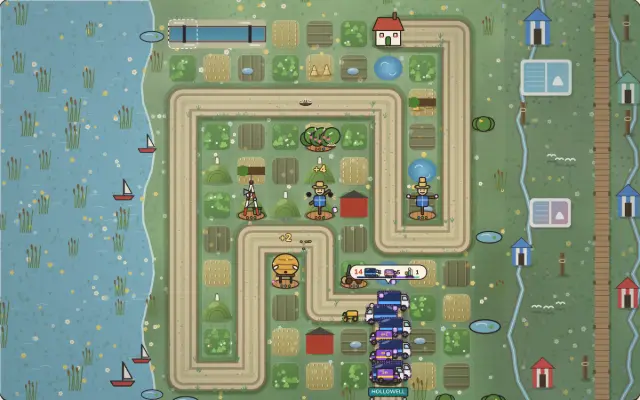
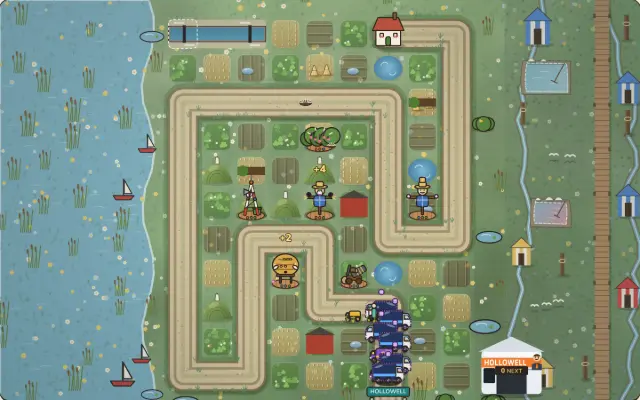
Hedgerow: a driver in every cab and an exhaust puff on the move (item 256, slice 1); key art re-shot; lane B notes; release lock
Claude-Session: https://claude.ai/code/session_01SimvMN1RHBGCWN7Eo7MzhN

diff --git a/games/hedgerow/src/sprites.ts b/games/hedgerow/src/sprites.ts
@@ -1516,6 +1516,20 @@ function vehicle(ctx: C, x: number, y: number, s: number, t: number, o: VehicleO
     ctx.closePath();
     ctx.fill();
     ctx.stroke();
+    // Plan item 256: someone at the wheel: a driver's head and shoulders in the window, in Hollowell's cap.
+    ctx.save();
+    ctx.clip();
+    ctx.fillStyle = "#3a2f2a";
+    ctx.beginPath();
+    ctx.ellipse(x0 + L * 0.86, top + H * 0.58, L * 0.06, H * 0.14, 0, 0, Math.PI * 2);
+    ctx.fill();
+    ctx.fillStyle = "#e9c3a0";
+    ctx.beginPath();
+    ctx.arc(x0 + L * 0.86, top + H * 0.43, Math.min(L * 0.04, H * 0.11), 0, Math.PI * 2);
+    ctx.fill();
+    ctx.fillStyle = o.stripe ?? "#1f8a8a";
+    ctx.fillRect(x0 + L * 0.82, top + H * 0.3, L * 0.08, H * 0.06);
+    ctx.restore();
     // Headlight.
     ctx.fillStyle = "#fff2a8";
     ctx.beginPath();
@@ -1534,6 +1548,14 @@ function vehicle(ctx: C, x: number, y: number, s: number, t: number, o: VehicleO
     ctx.fillText(o.label, x0 + L * 0.37, top + H * 0.38);
   }
   shine(ctx, x0 + L * 0.2, top + H * 0.18, L * 0.14, H * 0.07);
+  // Plan item 256: an exhaust puff at the tail, drifting back as it goes (still while parked in the queue: t is 0).
+  if (t > 0) {
+    const k = (t * 1.6) % 1;
+    ctx.fillStyle = `rgba(150,150,150,${(0.45 * (1 - k)).toFixed(2)})`;
+    ctx.beginPath();
+    ctx.arc(x0 - s * (0.04 + k * 0.12), y - wr * 1.4 - k * s * 0.05, s * (0.03 + k * 0.04), 0, Math.PI * 2);
+    ctx.fill();
+  }
   const n = o.wheels ?? 2;
   for (let i = 0; i < n; i++) {
     const wx = x0 + L * (0.18 + (i * 0.64) / Math.max(1, n - 1));

diff --git a/PROGRESS.md b/PROGRESS.md
@@ -5,7 +5,7 @@ Short by design (SPEC 16: under 150 lines). v1's full history (M0 to M7, every s
 ## Now
 - Lane A (13:51): item 249 done (3 slices; accept's 700/620 px cut, see DECISIONS); item 251 slice 1 (plate clear of her body at t=8) and handed back (the t=60 framing). `plan-cards` at 1280 had failed on HEAD before 249 (fixed). **Today's 19:51 session releases** (run the full site suite first).
 - Critique bugs from the 09:35 shots (`e2e/screenshots/plan1103d/`): NIGHT SHIFT wordmark 'H's: closed 2026-11-07 06:30 (lane A: whole at L and D at 8 s and 20 s; the SVG path, no dash left). Runnel P's spring house and garden: closed 2026-11-04 (item 106).
-- Lane B (13:22): planned items 254-259 (`plan1107e`); item 242 closed on its fog slice; item 259 slice 1 (Runnel props off the hill crest). Items 211, 222, 224, 236, 259 claimed.
+- Lane B (14:22): item 256 slice 1 (drivers and exhaust on Hedgerow's vehicles; key art re-shot). Items 211, 222, 224, 236, 256, 259 claimed.
 - Critique bugs from the 2026-11-05 09:30 shots (`e2e/screenshots/plan1105c/`, lane B): `cath-title-D` pennant hint ~13 px white on brown (1030-1280 x 800-818) and footer ~12 px (310-1130 x 872-886); `cath-title-P` small keys' labels ~12 px (85-305 x 692-735); `cath-setup-D` seed 'random' low contrast (655-840 x 795-835); `hedge-l34-2d-D` '485 coming' over a farmer (300-395 x 128-150); `hedge-menu-P` 'Brand Ambassador' (closed 2026-11-07 06:35 lane A: on its own label pill beside stop 30, off the road); `ns-title-D` neon sign clipped at the top (790-1150 x 0-45); `ns-play-P` FIXER tab cut (340-390 x 68-82); `games-P` hero ghosted (likely shot mid-entrance: check before fixing).
 - Critique bug seen 2026-11-04 13:30 (lane A, 1280x800): a Not-yet name cut on a 1280 desktop. Fixed 2026-11-04 14:15 (item 104 slice 1).
 - Critique bugs still open (2026-11-03 07:10 shots, `e2e/screenshots/plan1103c/`): NIGHT SHIFT P class pick blank under swiftshader (unconfirmed). Closed 2026-11-04 14:55 (lane A, checked in `plan1104e`): Cath no longer covers title-board hexes at P; Hedgerow D notebook is full; Hedgerow P map header is the act banner over the map.
@@ -37,6 +37,7 @@ None (Vercel deployed 9aee11e on 2026-10-12). (The App Store launch is postponed
 
 ## Session log (newest first, last 15)
 - **2026-11-07 13:51 lane A session:** CI green on 25dd7b5. Item 249 slices 1-3 and done (readings folded beside the papers at 1400+, board 536 -> 593 px at 1440x900; tile idle life `data-idle`); item 251 slice 1, handed back. Passing: board-scale, table-cath, -face, desktop-no-scroll, suggest-move, critique177, board-scales, board-objects, plan-cards (fixed at 1440 and 1280), accessibility, board-idle (new), tutorial (flaked once, passed twice), map unit; cathode-front 'clear of her upright', 'stands whole', 'face reads' (site-phone/-desktop); CSS lint, cathode-type, tsc, eslint. Full `npm run check` not run. Shots scratchpad b249 (before/after/after2 at 1440 light and dark, 1280, 1920, 390; idle zooms; ns-before/after at 390, 375, t=60).
+- **2026-11-07 14:22 lane B session:** CI green on 7363e5d. Lock push first rejected (lane A's claim landed); rebased and pushed, no other lane-B lock. Item 256 slice 1. Passing: hedgerow unit (609), keyart-fresh, hedgerow-vehicles, -gatequeue, -silhouettes, -swarm (phone and desktop). Shots `e2e/screenshots/i214/cv-*`.
 - **2026-11-07 13:22 lane B session:** CI green on 7345ddb. Item 242 closed; planned 254-259; item 259 slice 1. Passing: runnel-week-valley, -valley-folk, -valley, -front (phone and desktop). Shots `e2e/screenshots/plan1107e`, `i214/rp2-*`.
 - **2026-11-07 12:52 lane A session:** CI green on f140f17 (c04fecd cancelled, 7345ddb running). Item 249 slice 1: the Market Board as a 2x2 beside the papers at 1400 px and up (board 536 -> 606 px at 1440x900); not committed: board-scale (Cath meets Brindle Hills; map moves 13 px on Hollowell's turn) and table-cath failed. Passing with it: desktop-no-scroll, critique177, tutorial, board-scales, CSS lint. Patch saved, item handed back. No code shipped. Shots scratchpad b249 (before, a1-a6).
 - **2026-11-07 11:51 lane A session:** CI green on d3129347. Item 247 slice 3 and done. Passing: cathode-classpick (face 70 px and prop-off-face asserts added), -classpose, -classstage, -front and -idle but one (phone and desktop); keyart-fresh, cathode-classposes unit; tsc, eslint. Failing on HEAD without this change: cathode-front 'clear of her upright' (P, item 251). Full `npm run check` not run (time). Shots scratchpad ns247b (before, a1-a5 D, P, L).
@@ -50,4 +51,3 @@ None (Vercel deployed 9aee11e on 2026-10-12). (The App Store launch is postponed
 - **2026-11-07 07:51 lane A session:** CI green on f17e099. Item 245 done (NS phone class pick: the class named large over Cath, page dots, the tab row visually hidden); item 246 slice 2. Passing: cathode-classpick (new swipe test), -dossier, -classstage (P and D); setup-* (25, D and P); runnel-front, -lesson-frame, -lesson-hand, -lesson-notebook; CSS lint, cathode-type, tsc, eslint. Full `npm run check` passed (280 files, 2476 tests). runnel-lesson-close fails at P on HEAD without this change too (1.5 s tile-count wait). Shots scratchpad c245 (before/a1/a2 P, D), b246/a246 (cath, runnel P and D).
 - **2026-11-07 08:21 lane B session:** CI green on f17e099. Item 242 slice 1. Passing: hedgerow-3dframe, -depot3d, -farhouses3d, -biome3d (phone and desktop); tsc. hedgerow-camera3d's settle test flaky on HEAD (3/3 fail without this change). Shots `e2e/screenshots/i214/fog*`.
 - **2026-11-07 07:21 lane B session:** CI green on 105e4b9. Item 242: a CSS horizon haze tried, reverted (camera3d failed with it, passed without); handed back. No code shipped.
-- **2026-11-07 06:51 lane A session:** CI green on 2f92a0b. Items 241 (Hedgerow map stops as painted per-act landmarks, `stopart.ts`), 244 (Cathnivore D ledger written in ink with a running Marks column) and 243 (/games/ D hero as Cath's stall, `site/src/booth.ts`) done. Passing: hedgerow-map (38, P and D), hedgerow-stopart unit; ledger-ink (new), partner-mat, board-scale, role-card, boardroom, desktop-no-scroll (D), round-ledger unit; games-stall (new 243 test), games-cards (two checks updated, see DECISIONS), games-hero-cath, site-hero, games-cath, critique104; CSS lint, tsc, eslint. Full `npm run check` passed (280 files, 2476 tests). Shots scratchpad m241b/m241a2 (map fresh, mid, late P and D), g244b/g244a (D light and dark), gh243b/gh243a (D, D2, P).

diff --git a/docs/archive/PROGRESS-v1.md b/docs/archive/PROGRESS-v1.md
@@ -3926,3 +3926,4 @@ want reminded of mid-game without leaving the Farm sheet. Full detail in DECISIO
 - **2026-11-07 05:51 lane A session:** CI green on f96e743. Fixed gate 5 (site) failures lane B saw: critique103 (D 'Scheme: Reconnaissance' 2 px spill, dense line-height 1.15) and critique79 (tab test assumed the old scrolling Actions rail). Item 239 slice 2 and done (stall rail), item 240 slices 2-3 and done. Passing: critique103, critique79, hand-painted, critique177 (D); setup-* (25, D and P), campaign, turn-show, hotseat, boardroom, chapter-resume (campaign:12 flaked under load, passes alone); runnel-board, -valley, -critique91, -tiles; hedgerow-3dframe, -depot3d, -closeframe; CSS lint, tsc, eslint. Full `npm run check` passed (279 files, 2471 tests). Full site suite stopped at 47/748 (too slow). Closed two PROGRESS critique points (NS wordmark H's, Hedgerow P 'Brand Ambassador'). Shots scratchpad sp (setup before/a3/a4, rain crop, h21D before/after).
 
 - **2026-11-07 06:21 lane B session:** CI: latest reds cancelled (superseded); lane A fixed the critique103/79 reds lane B saw. Planned 241-246; item 246 slice 1. Passing: site.spec Hedgerow (51, phone and desktop); CSS lint. Shots `e2e/screenshots/plan1107c`, `i214/hw-*`.
+- **2026-11-07 06:51 lane A session:** CI green on 2f92a0b. Items 241 (Hedgerow map stops as painted per-act landmarks, `stopart.ts`), 244 (Cathnivore D ledger written in ink with a running Marks column) and 243 (/games/ D hero as Cath's stall, `site/src/booth.ts`) done. Passing: hedgerow-map (38, P and D), hedgerow-stopart unit; ledger-ink (new), partner-mat, board-scale, role-card, boardroom, desktop-no-scroll (D), round-ledger unit; games-stall (new 243 test), games-cards (two checks updated, see DECISIONS), games-hero-cath, site-hero, games-cath, critique104; CSS lint, tsc, eslint. Full `npm run check` passed (280 files, 2476 tests). Shots scratchpad m241b/m241a2 (map fresh, mid, late P and D), g244b/g244a (D light and dark), gh243b/gh243a (D, D2, P).

diff --git a/docs/plan/two-week-plan.md b/docs/plan/two-week-plan.md
@@ -2630,7 +2630,7 @@ The items come from fresh-eyes audits on 2026-11-01 and 2026-11-02 (items 25-32:
 - **Accept:** her face 40 px or more at D; an outline on every person; draw calls +10 or fewer at P; closeframe, 3dframe, cath3d pass; shots P and D.
 - **Size:** 2
 
-## 256. [ ] Hedgerow: the convoy as characters, not icons *(lane B, in progress)*
+## 256. [ ] Hedgerow: the convoy as characters, not icons *(lane B, in progress)* *(slice 1, 2026-11-07 14:50 lane B: the vehicles are already distinct per kind (sprites.ts); every cab vehicle now has a driver in its window in a cap of its livery and an exhaust puff while moving (none parked in the queue); Hedgerow key art re-shot. Left: the 1.4x size (enemyScale is shared with the field's play, so a queue-only scale) and the queue lead's name plate)*
 - **Why:** `plan1107e/hedge-l21-2d-D` (305-340 x 250-460), `hedge-l34-2d-D` (235-300 x 115-380): queued vehicles are 30 px flat icons stacked on the lane.
 - **Build:** each vehicle kind a livery sprite about 1.4x its size with a driver silhouette, a logo panel and an exhaust puff or wobble (none under reduced motion); the queue's lead carries a name plate.
 - **Accept:** vehicles 40 px or more at D and 28 at P; the kinds visibly distinct (unit test on sprite keys); hedgerow-threat, -gatequeue, -vehicles pass; key art re-shot; shots P and D.
